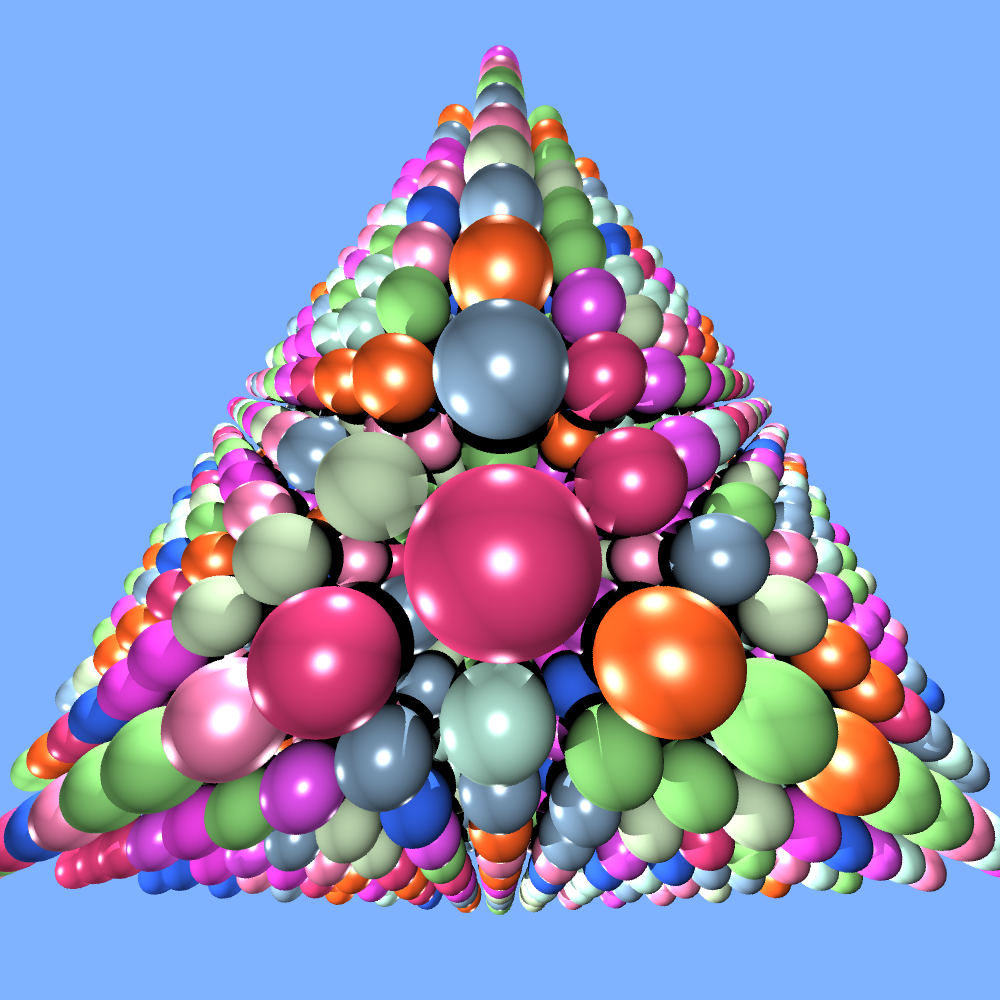
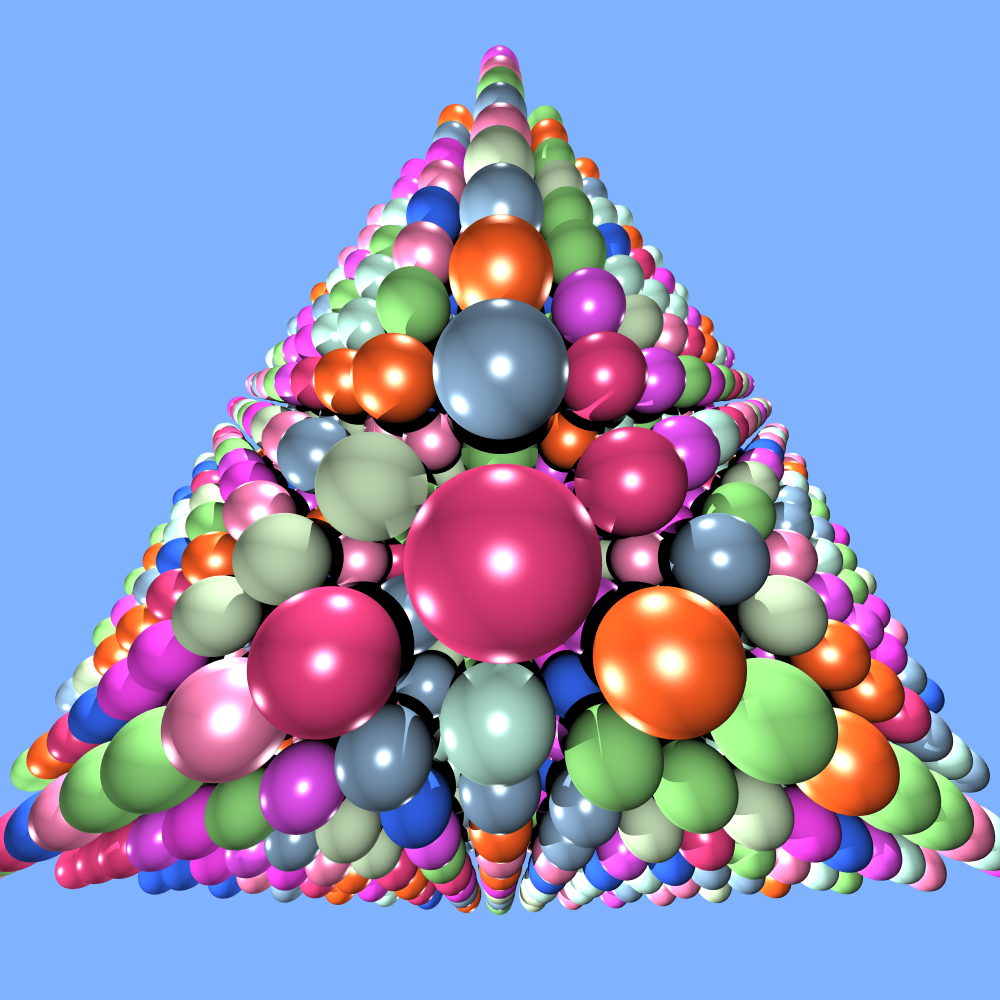
Starting BVH

diff --git a/starterCode/renderlib/BoundingBox.cpp b/starterCode/renderlib/BoundingBox.cpp
@@ -1,0 +1,2 @@
+#include "BoundingBox.h"
+
